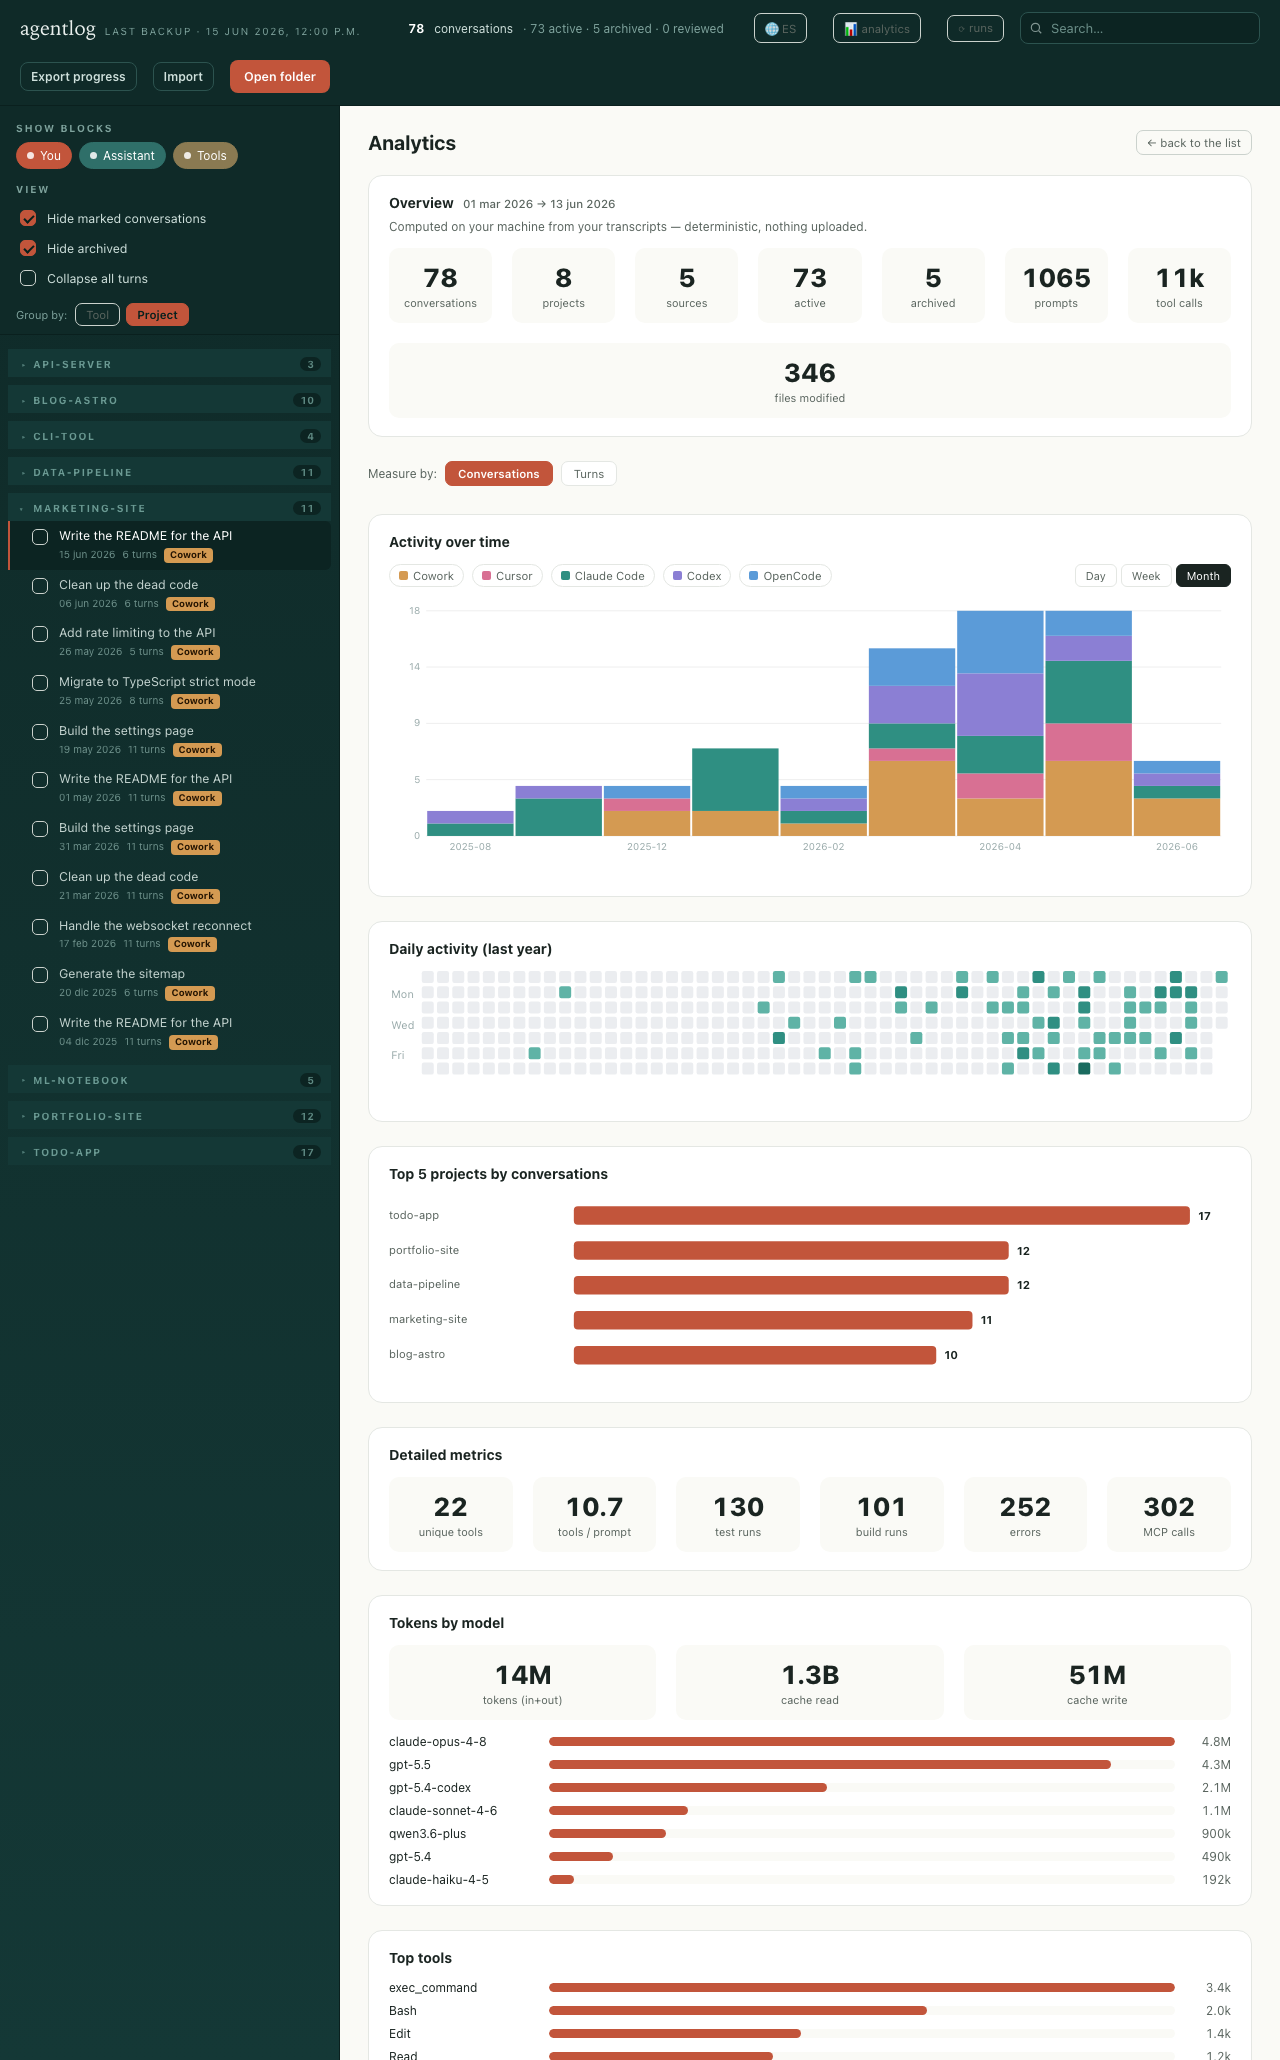
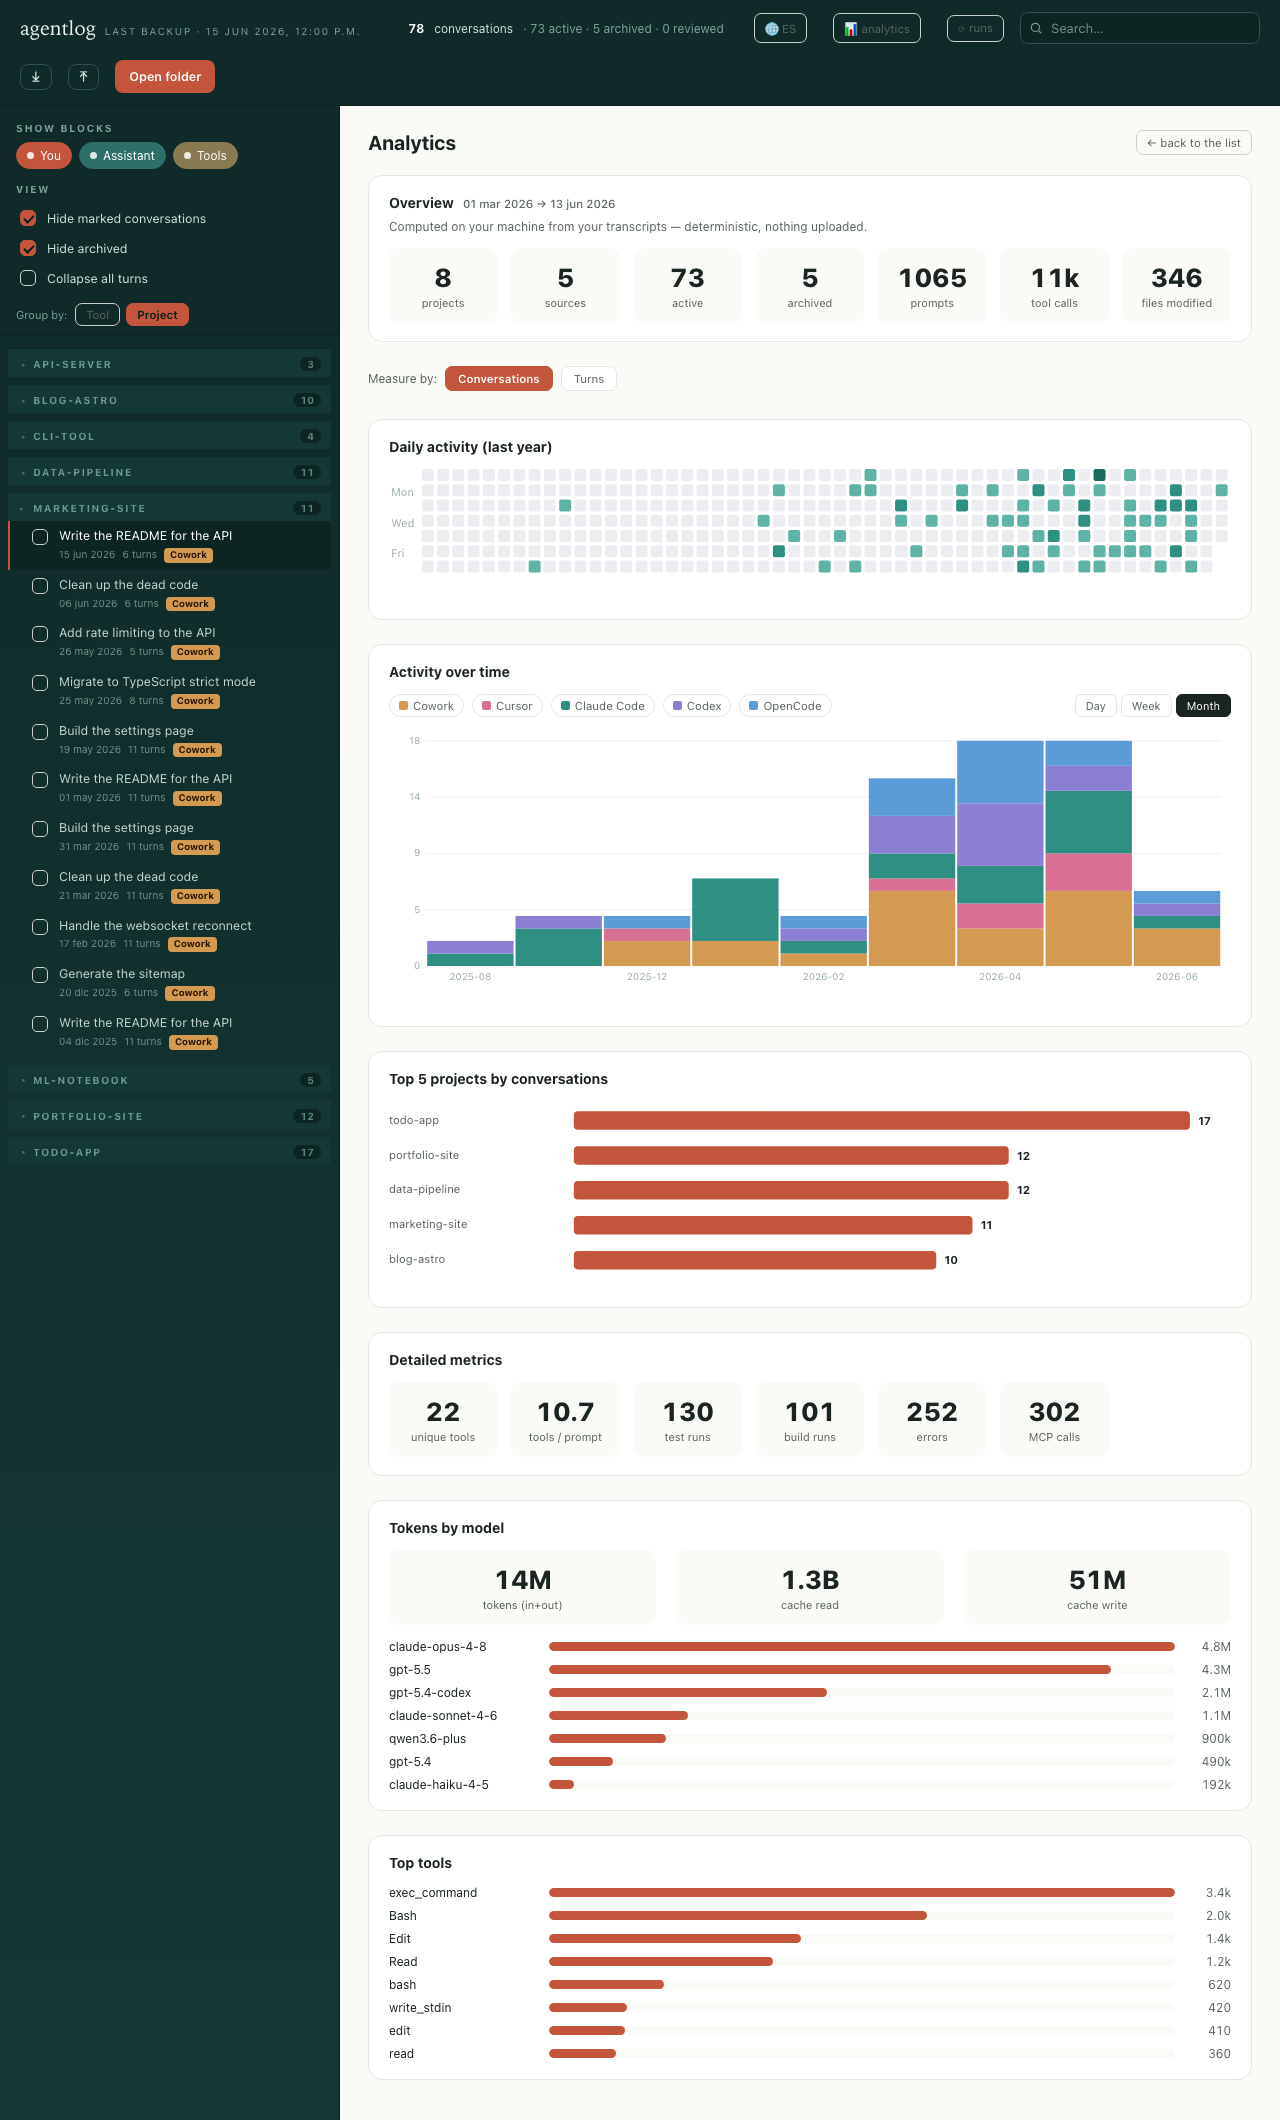
Ledger: Markdown fallback for pruned raw + Analytics IA polish
The tools prune old raw transcripts, but the .md backup is cumulative — so
the ledger only saw the few sessions whose raw still existed (e.g. 18 of 146
Claude sessions). Now it covers the whole archive:
- extract_ledger.py: per-source raw scanners tag each session's id; a shared
  Markdown scanner then covers any session whose raw is gone (counts only —
  tokens/model live in the raw). Cached by .md size:mtime; never double-counts
  a session that still has raw. Also picks up archived Codex via its .md.

Analytics IA polish (from feedback):
- Overview: projects first; drop the redundant total (active + archived imply
  it); stat tiles use an auto-fill grid so a lone last-row tile no longer
  stretches full width.
- Daily heatmap now precedes "activity over time".
- Center the analytics column (margin auto) instead of left-aligning it.
- Declutter the topbar: Export/Import become compact icon buttons (label in
  the tooltip); progress auto-saves anyway.
- Refresh hero.gif + analytics screenshots (EN/ES).

diff --git a/docs/index.html b/docs/index.html
@@ -33,7 +33,7 @@
   .analytics{flex:1;overflow-y:auto;padding:24px 28px;background:var(--paper)}
   .an-head{display:flex;align-items:center;justify-content:space-between;margin-bottom:20px}
   .an-head h2{margin:0;font-size:20px;color:var(--ink)}
-  .an-grid{display:flex;flex-direction:column;gap:24px;max-width:920px}
+  .an-grid{display:flex;flex-direction:column;gap:24px;max-width:920px;margin:0 auto}
   .an-card{background:#fff;border:1px solid var(--line);border-radius:14px;padding:18px 20px}
   .an-card h3{margin:0 0 14px;font-size:14px;color:var(--ink);font-weight:700}
   .an-controls{display:flex;gap:8px;flex-wrap:wrap;align-items:center;margin-bottom:14px}
@@ -64,7 +64,8 @@
   .an-stat .lbl{font-size:11px;color:var(--ink-soft);margin-top:4px}
   .lg-sub{margin:-6px 0 14px;font-size:12px;color:var(--ink-soft)}
   .lg-range{font-weight:500;font-size:11.5px;color:var(--ink-soft);margin-left:6px}
-  .lg-grid .an-stat{min-width:92px}
+  .lg-grid{display:grid;grid-template-columns:repeat(auto-fill,minmax(108px,1fr));gap:14px}
+  .lg-grid .an-stat{min-width:0}
   .lg-bars{display:flex;flex-direction:column;gap:8px;margin-top:14px}
   .lg-bar-row{display:flex;align-items:center;gap:10px;font-size:12px}
   .lg-bar-row[data-tip]{cursor:help}
@@ -246,6 +247,7 @@
     .menu-toggle{display:inline-flex !important}
   }
   .menu-toggle{display:none}
+  .icon-btn{font-size:15px;line-height:1;padding-left:9px;padding-right:9px}
   @media (prefers-reduced-motion:reduce){*{transition:none !important}}
 </style>
 </head>
@@ -262,8 +264,8 @@
       <svg width="14" height="14" viewBox="0 0 24 24" fill="none" stroke="#cfe0dc" stroke-width="2"><circle cx="11" cy="11" r="7"/><path d="m21 21-4.3-4.3"/></svg>
       <input id="search" type="search" placeholder="Search…" autocomplete="off">
     </div>
-    <button class="btn ghost sm" id="exportBtn">Save progress</button>
-    <button class="btn ghost sm" id="importBtn">Load</button>
+    <button class="btn ghost sm icon-btn" id="exportBtn" aria-label="Export progress">⤓</button>
+    <button class="btn ghost sm icon-btn" id="importBtn" aria-label="Import">⤒</button>
     <input id="importFile" type="file" accept="application/json" hidden>
     <button class="btn" id="openBtn">Open folder</button>
     <input id="folder" type="file" webkitdirectory directory multiple hidden>
@@ -434,7 +436,10 @@ function applyStaticI18n(){
   set("lbl-view",t("view"));
   set("lbl-hide-done",t("hide_done")); set("lbl-hide-archived",t("hide_archived")); set("lbl-collapse-turns",t("collapse_turns"));
   set("lbl-group-by",t("group_by")); set("gtSource",t("by_tool")); set("gtProject",t("by_project"));
-  set("exportBtn",t("save_progress")); set("importBtn",t("load")); set("openBtn",t("open_folder"));
+  set("openBtn",t("open_folder"));
+  // Export/Import are compact icon buttons → their label lives in the tooltip.
+  const setTitle=(id,v)=>{ const el=document.getElementById(id); if(el) el.title=v; };
+  setTitle("exportBtn",t("save_progress")); setTitle("importBtn",t("load"));
   set("btnAnalytics",t("analytics")); set("btnLog",t("runs"));
   const s=document.getElementById("search"); if(s) s.placeholder=t("search");
   set("lbl-runs-title",t("runs_title"));
@@ -755,8 +760,8 @@ function renderAnalytics(){
   grid.appendChild(cardOverview(sesiones, state.ledger));
   // 2) Activity patterns — the metric toggle leads the charts it controls.
   grid.appendChild(mc);
-  grid.appendChild(cardStackedArea(sesiones));
   grid.appendChild(cardHeatmap(sesiones));
+  grid.appendChild(cardStackedArea(sesiones));
   grid.appendChild(cardTopProjects(sesiones));
   // 3) Detail — granular metrics, token spend, tool usage.
   if(state.ledger){
@@ -942,7 +947,7 @@ function cardDetailMetrics(lg){
     [T.test_runs,t("lg_tests")],[T.build_runs,t("lg_builds")],
     [T.errors,t("lg_errors")],[T.mcp_tool_calls,t("lg_mcp")],
   ];
-  const cont=document.createElement("div"); cont.className="an-summary lg-grid";
+  const cont=document.createElement("div"); cont.className="lg-grid";
   cont.innerHTML=stats.map(([n,l])=>`<div class="an-stat"><div class="num">${n}</div><div class="lbl">${l}</div></div>`).join("");
   card.appendChild(cont);
   return card;
@@ -999,15 +1004,17 @@ function cardOverview(sesiones, lg){
     range=`<span class="lg-range">${escapeHtml(formatDate(lg.first_activity.slice(0,10),false))} → ${escapeHtml(formatDate(lg.last_activity.slice(0,10),false))}</span>`;
   }
   card.innerHTML=`<h3>${t("overview_title")} ${range}</h3><p class="lg-sub">${t("ledger_sub")}</p>`;
+  // General → detail: projects first, then sources, then conversation states
+  // (active/archived imply the total, so the redundant total tile is dropped).
   const stats=[
-    [total,t("n_conversations")],[proyectos,t("n_projects")],
-    [fuentes,t("n_sources")],[total-arch,t("n_active")],[arch,t("n_archived")],
+    [proyectos,t("n_projects")],[fuentes,t("n_sources")],
+    [total-arch,t("n_active")],[arch,t("n_archived")],
   ];
   if(lg){
     const T=lg.totals;
     stats.push([T.user_messages,t("lg_prompts")],[fmtNum(T.tool_calls),t("lg_tool_calls")],[T.files_modified,t("lg_files")]);
   }
-  const cont=document.createElement("div"); cont.className="an-summary lg-grid";
+  const cont=document.createElement("div"); cont.className="lg-grid";
   cont.innerHTML=stats.map(([n,l])=>`<div class="an-stat"><div class="num">${n}</div><div class="lbl">${l}</div></div>`).join("");
   card.appendChild(cont);
   return card;

diff --git a/viewer.html b/viewer.html
@@ -33,7 +33,7 @@
   .analytics{flex:1;overflow-y:auto;padding:24px 28px;background:var(--paper)}
   .an-head{display:flex;align-items:center;justify-content:space-between;margin-bottom:20px}
   .an-head h2{margin:0;font-size:20px;color:var(--ink)}
-  .an-grid{display:flex;flex-direction:column;gap:24px;max-width:920px}
+  .an-grid{display:flex;flex-direction:column;gap:24px;max-width:920px;margin:0 auto}
   .an-card{background:#fff;border:1px solid var(--line);border-radius:14px;padding:18px 20px}
   .an-card h3{margin:0 0 14px;font-size:14px;color:var(--ink);font-weight:700}
   .an-controls{display:flex;gap:8px;flex-wrap:wrap;align-items:center;margin-bottom:14px}
@@ -64,7 +64,8 @@
   .an-stat .lbl{font-size:11px;color:var(--ink-soft);margin-top:4px}
   .lg-sub{margin:-6px 0 14px;font-size:12px;color:var(--ink-soft)}
   .lg-range{font-weight:500;font-size:11.5px;color:var(--ink-soft);margin-left:6px}
-  .lg-grid .an-stat{min-width:92px}
+  .lg-grid{display:grid;grid-template-columns:repeat(auto-fill,minmax(108px,1fr));gap:14px}
+  .lg-grid .an-stat{min-width:0}
   .lg-bars{display:flex;flex-direction:column;gap:8px;margin-top:14px}
   .lg-bar-row{display:flex;align-items:center;gap:10px;font-size:12px}
   .lg-bar-row[data-tip]{cursor:help}
@@ -246,6 +247,7 @@
     .menu-toggle{display:inline-flex !important}
   }
   .menu-toggle{display:none}
+  .icon-btn{font-size:15px;line-height:1;padding-left:9px;padding-right:9px}
   @media (prefers-reduced-motion:reduce){*{transition:none !important}}
 </style>
 </head>
@@ -262,8 +264,8 @@
       <svg width="14" height="14" viewBox="0 0 24 24" fill="none" stroke="#cfe0dc" stroke-width="2"><circle cx="11" cy="11" r="7"/><path d="m21 21-4.3-4.3"/></svg>
       <input id="search" type="search" placeholder="Search…" autocomplete="off">
     </div>
-    <button class="btn ghost sm" id="exportBtn">Save progress</button>
-    <button class="btn ghost sm" id="importBtn">Load</button>
+    <button class="btn ghost sm icon-btn" id="exportBtn" aria-label="Export progress">⤓</button>
+    <button class="btn ghost sm icon-btn" id="importBtn" aria-label="Import">⤒</button>
     <input id="importFile" type="file" accept="application/json" hidden>
     <button class="btn" id="openBtn">Open folder</button>
     <input id="folder" type="file" webkitdirectory directory multiple hidden>
@@ -434,7 +436,10 @@ function applyStaticI18n(){
   set("lbl-view",t("view"));
   set("lbl-hide-done",t("hide_done")); set("lbl-hide-archived",t("hide_archived")); set("lbl-collapse-turns",t("collapse_turns"));
   set("lbl-group-by",t("group_by")); set("gtSource",t("by_tool")); set("gtProject",t("by_project"));
-  set("exportBtn",t("save_progress")); set("importBtn",t("load")); set("openBtn",t("open_folder"));
+  set("openBtn",t("open_folder"));
+  // Export/Import are compact icon buttons → their label lives in the tooltip.
+  const setTitle=(id,v)=>{ const el=document.getElementById(id); if(el) el.title=v; };
+  setTitle("exportBtn",t("save_progress")); setTitle("importBtn",t("load"));
   set("btnAnalytics",t("analytics")); set("btnLog",t("runs"));
   const s=document.getElementById("search"); if(s) s.placeholder=t("search");
   set("lbl-runs-title",t("runs_title"));
@@ -755,8 +760,8 @@ function renderAnalytics(){
   grid.appendChild(cardOverview(sesiones, state.ledger));
   // 2) Activity patterns — the metric toggle leads the charts it controls.
   grid.appendChild(mc);
-  grid.appendChild(cardStackedArea(sesiones));
   grid.appendChild(cardHeatmap(sesiones));
+  grid.appendChild(cardStackedArea(sesiones));
   grid.appendChild(cardTopProjects(sesiones));
   // 3) Detail — granular metrics, token spend, tool usage.
   if(state.ledger){
@@ -942,7 +947,7 @@ function cardDetailMetrics(lg){
     [T.test_runs,t("lg_tests")],[T.build_runs,t("lg_builds")],
     [T.errors,t("lg_errors")],[T.mcp_tool_calls,t("lg_mcp")],
   ];
-  const cont=document.createElement("div"); cont.className="an-summary lg-grid";
+  const cont=document.createElement("div"); cont.className="lg-grid";
   cont.innerHTML=stats.map(([n,l])=>`<div class="an-stat"><div class="num">${n}</div><div class="lbl">${l}</div></div>`).join("");
   card.appendChild(cont);
   return card;
@@ -999,15 +1004,17 @@ function cardOverview(sesiones, lg){
     range=`<span class="lg-range">${escapeHtml(formatDate(lg.first_activity.slice(0,10),false))} → ${escapeHtml(formatDate(lg.last_activity.slice(0,10),false))}</span>`;
   }
   card.innerHTML=`<h3>${t("overview_title")} ${range}</h3><p class="lg-sub">${t("ledger_sub")}</p>`;
+  // General → detail: projects first, then sources, then conversation states
+  // (active/archived imply the total, so the redundant total tile is dropped).
   const stats=[
-    [total,t("n_conversations")],[proyectos,t("n_projects")],
-    [fuentes,t("n_sources")],[total-arch,t("n_active")],[arch,t("n_archived")],
+    [proyectos,t("n_projects")],[fuentes,t("n_sources")],
+    [total-arch,t("n_active")],[arch,t("n_archived")],
   ];
   if(lg){
     const T=lg.totals;
     stats.push([T.user_messages,t("lg_prompts")],[fmtNum(T.tool_calls),t("lg_tool_calls")],[T.files_modified,t("lg_files")]);
   }
-  const cont=document.createElement("div"); cont.className="an-summary lg-grid";
+  const cont=document.createElement("div"); cont.className="lg-grid";
   cont.innerHTML=stats.map(([n,l])=>`<div class="an-stat"><div class="num">${n}</div><div class="lbl">${l}</div></div>`).join("");
   card.appendChild(cont);
   return card;

diff --git a/converters/extract_ledger.py b/converters/extract_ledger.py
@@ -36,7 +36,7 @@ except Exception:
         parts = [p for p in folder.split("-") if p]
         return parts[-1] if parts else folder
 
-CACHE_VERSION = 2
+CACHE_VERSION = 3
 
 TEST_RE = re.compile(
     r"\b(pytest|jest|vitest|go test|cargo test|npm (?:run )?test|"
@@ -53,6 +53,7 @@ WEB_TOOLS = {"websearch", "webfetch", "web_search", "web_fetch", "webfetchtool"}
 
 def new_session(project):
     return {
+        "id": None,
         "project": project or "(no project)", "sessions": 1,
         "user_messages": 0, "assistant_messages": 0,
         "tool_calls": 0, "mcp_tool_calls": 0,
@@ -121,6 +122,7 @@ def record_tool(s, name, cmd=None, fpath=None):
 # --------------------------------------------------------------------------
 def scan_claude(path, plabel):
     s = new_session(plabel)
+    s["id"] = os.path.splitext(os.path.basename(path))[0]  # uuid == the .md's id
     for line in open(path, errors="ignore"):
         line = line.strip()
         if not line:
@@ -224,6 +226,8 @@ def scan_codex(path, _plabel=None):
             cwd = p.get("cwd")
             if cwd:
                 s["project"] = os.path.basename(cwd.rstrip("/")) or s["project"]
+            if p.get("id"):
+                s["id"] = p.get("id")  # matches the .md's id
             bump_time(s, p.get("timestamp"))
         if isinstance(p, dict) and p.get("model"):
             model = p.get("model")
@@ -293,6 +297,7 @@ def scan_opencode_db(db_path):
         sid = row["id"]
         proj = os.path.basename((row["directory"] or "").rstrip("/")) or "(no project)"
         s = new_session(proj)
+        s["id"] = str(sid)
         s["_key"] = "opencode\t" + str(sid)
         bump_time(s, epoch_to_iso(row["time_created"]))
         try:
@@ -386,6 +391,7 @@ def scan_cursor_db(db_path):
     con.close()
     for cid, bubs in bubbles.items():
         s = new_session("cursor")
+        s["id"] = str(cid)
         s["_key"] = "cursor\t" + str(cid)
         bump_time(s, epoch_to_iso(meta.get(cid)))
         for b in bubs:
@@ -403,6 +409,89 @@ def scan_cursor_db(db_path):
                             fpath=args.get("path") or args.get("filePath"))
         out.append(finish_session(s))
     return out
+
+
+# --------------------------------------------------------------------------
+# Markdown fallback (any source) — covers sessions whose raw was pruned but
+# whose cumulative .md backup survives. Counts only: tokens/model live in raw.
+# --------------------------------------------------------------------------
+MD_USER_RE = re.compile(r"^###\s+(?:You|Tú)\s*$", re.M)
+MD_ASSIST_RE = re.compile(r"^###\s+(?:Claude|Codex|Cursor|OpenCode)\s*$", re.M)
+MD_TOOL_RE = re.compile(r"\[(?:tool|herramienta):\s*([^\]\n→]+?)(?:\s*→\s*([^\]\n]*))?\]")
+MD_BASH_RE = re.compile(r"```bash\n(.*?)\n```", re.S)
+
+
+def scan_markdown(path):
+    try:
+        txt = open(path, errors="ignore").read()
+    except Exception:
+        return None
+    s = new_session(None)
+    cm = re.search(r"<!--(.*?)-->", txt, re.S)
+    meta = cm.group(1) if cm else ""
+    mid = re.search(r"id:\s*([^|>\s]+)", meta)
+    s["id"] = mid.group(1).strip() if mid else None
+    md = re.search(r"(?:date|fecha):\s*([^|]+)", meta)
+    if md:
+        bump_time(s, md.group(1).strip())
+    mp = re.search(r"(?:project|proyecto):\s*([^|]+)", meta)
+    if mp:
+        s["project"] = mp.group(1).strip() or s["project"]
+    s["user_messages"] = len(MD_USER_RE.findall(txt))
+    s["assistant_messages"] = len(MD_ASSIST_RE.findall(txt))
+    for tm in MD_TOOL_RE.finditer(txt):
+        name = (tm.group(1) or "tool").strip().split()
+        name = name[0] if name else "tool"
+        target = (tm.group(2) or "").strip()
+        s["tool_calls"] += 1
+        s["tools"][name] = s["tools"].get(name, 0) + 1
+        low = name.lower()
+        if name.startswith("mcp__") or low.startswith("mcp_"):
+            s["mcp_tool_calls"] += 1
+        if low in WEB_TOOLS:
+            s["web_searches"] += 1
+        if low in EDIT_TOOLS and target:
+            s["_files"].add(target)
+        if target:  # cursor/opencode keep the shell command in the → target
+            if TEST_RE.search(target):
+                s["test_runs"] += 1
+            if BUILD_RE.search(target):
+                s["build_runs"] += 1
+    for bm in MD_BASH_RE.finditer(txt):  # claude/codex keep it in a bash block
+        cmd = bm.group(1)
+        if TEST_RE.search(cmd):
+            s["test_runs"] += 1
+        if BUILD_RE.search(cmd):
+            s["build_runs"] += 1
+    return finish_session(s)
+
+
+def collect_markdown(out_dir, raw_ids, old):
+    """Scan out_dir/*.md; add sessions whose id has no surviving raw."""
+    cache, sessions, hits, misses = {}, [], 0, 0
+    for root, _dirs, fnames in os.walk(out_dir):
+        for base in fnames:
+            if not base.endswith(".md"):
+                continue
+            f = os.path.join(root, base)
+            try:
+                st = os.stat(f); sig = "%d:%d" % (st.st_size, int(st.st_mtime))
+            except OSError:
+                continue
+            key = "md\t" + f
+            entry = old.get(key)
+            if entry and entry.get("sig") == sig and isinstance(entry.get("metrics"), dict):
+                metrics = entry["metrics"]; hits += 1
+            else:
+                metrics = scan_markdown(f)
+                if metrics is None:
+                    continue
+                misses += 1
+            cache[key] = {"sig": sig, "metrics": metrics}
+            if metrics.get("id") and metrics["id"] in raw_ids:
+                continue   # raw is richer — only fall back to the .md when raw is gone
+            sessions.append(metrics)
+    return cache, sessions, hits, misses
 
 
 # --------------------------------------------------------------------------
@@ -568,6 +657,14 @@ def main():
     else:
         new_cache, sessions, hits, misses = collect_db_source(input_path, fmt, old)
 
+    # Markdown fallback: the raw transcripts get pruned by the tools, but the .md
+    # backup is cumulative — cover those raw-less sessions from the Markdown
+    # (counts only; tokens/model only exist in the raw).
+    raw_ids = {m.get("id") for m in sessions if m.get("id")}
+    md_cache, md_sessions, md_hits, md_misses = collect_markdown(out_dir, raw_ids, old)
+    new_cache.update(md_cache)
+    sessions = sessions + md_sessions
+
     # Drop empty sessions (no messages, no tools) so the ledger's session count
     # matches what the Markdown converters emit (they skip empties too).
     sessions = [m for m in sessions
@@ -593,9 +690,10 @@ def main():
               open(cache_path, "w"), ensure_ascii=False)
 
     tt = ledger["totals"]
+    md_note = f", {len(md_sessions)} from .md (raw pruned)" if md_sessions else ""
     print(f"Ledger [{source}]: {tt['sessions']} sessions "
-          f"({hits} cached, {misses} scanned), {tt['tool_calls']} tool calls, "
-          f"{tt['files_modified']} files, "
+          f"({hits + md_hits} cached, {misses + md_misses} scanned{md_note}), "
+          f"{tt['tool_calls']} tool calls, {tt['files_modified']} files, "
           f"{ledger['tokens']['input'] + ledger['tokens']['output']:,} base tokens")
 
 

diff --git a/AGENTS.md b/AGENTS.md
@@ -31,8 +31,11 @@ OpenCode, Cowork). macOS and Linux (paths resolved per-OS; Cowork is macOS-only)
   metrics (token usage by model, tool/test/build counts, files modified, errors)
   read from each tool's RAW storage. One scanner per format (claude+cowork .jsonl,
   codex rollouts, opencode/cursor SQLite); all emit the same per-session dict.
-  Cursor carries no tokens → counts only. Each source writes a per-source
-  `_ledger.json` (the viewer reads every one and aggregates). No LLM, no network.
+  Cursor carries no tokens → counts only. **Markdown fallback:** the tools prune old
+  raw transcripts, but the `.md` backup is cumulative — so for sessions whose raw is
+  gone, counts are parsed from the `.md` (tokens/model only exist in raw). Each
+  source writes a per-source `_ledger.json` (the viewer reads every one and
+  aggregates). No LLM, no network.
   Incremental: per-session metrics are cached in `_ledger-cache.json` (validated by
   size:mtime) — file sources re-scan only changed sessions; DB sources re-scan only
   when the DB changed. Called from each source's block in `update-backup.sh`.